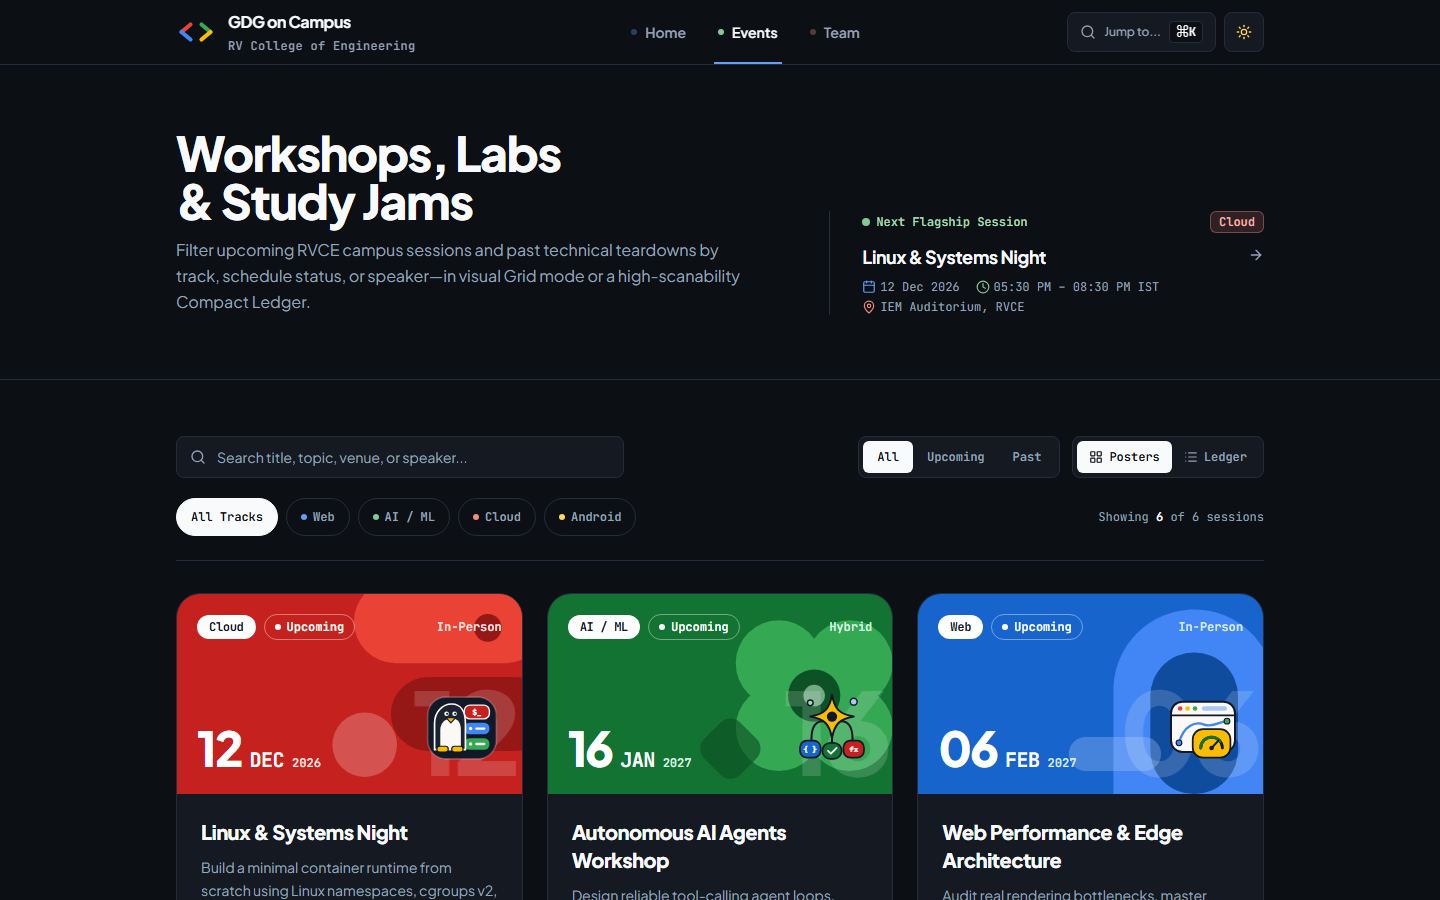
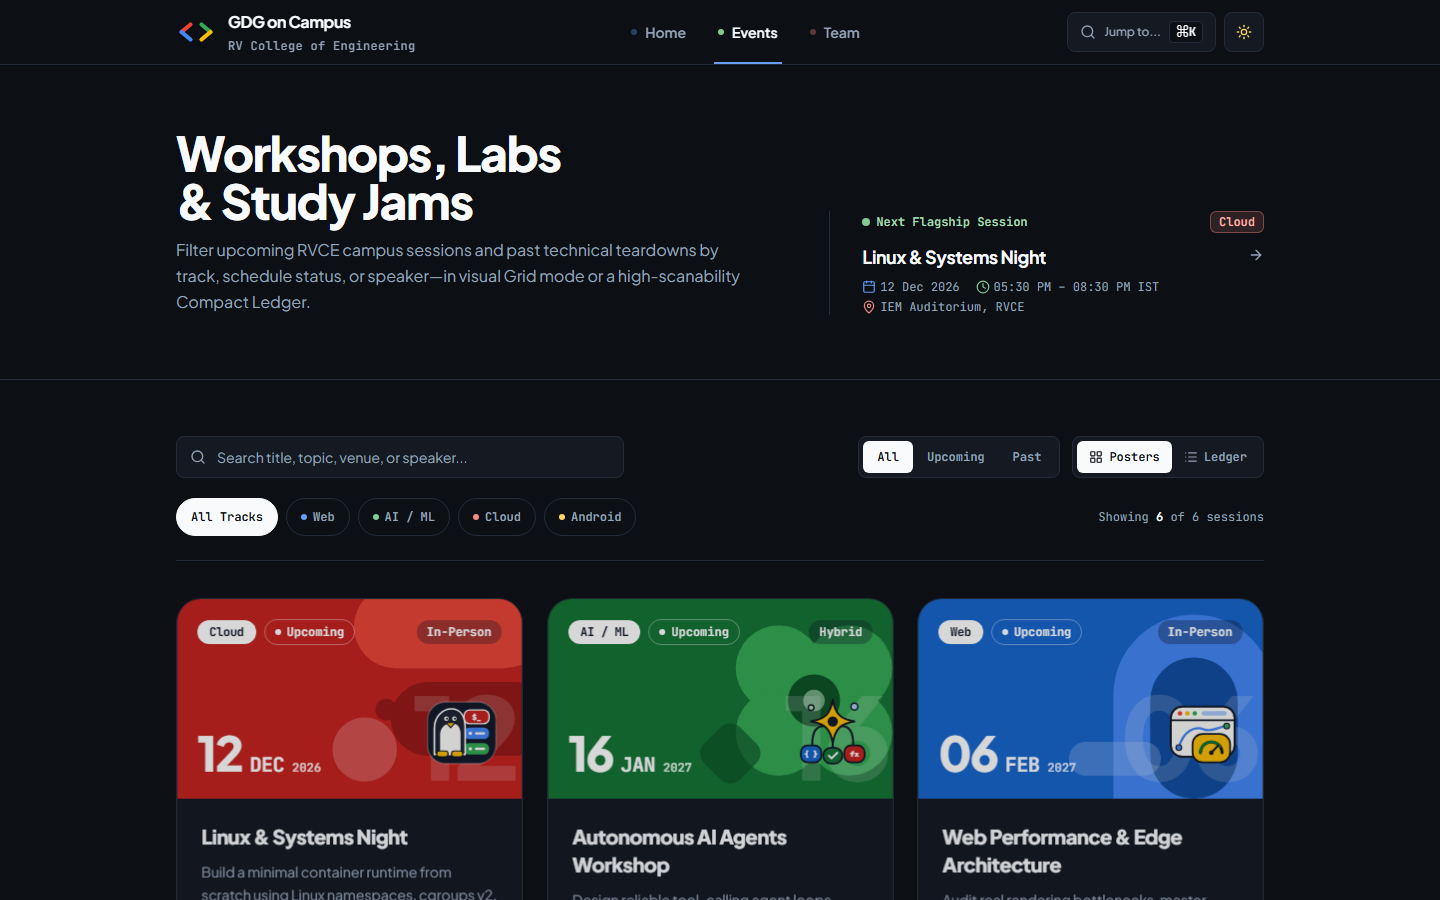
fix: resolve React #418 hydration error and scroll-reveal contrast for 100/100 Lighthouse

Changed region(s): [[0.125, 0.6533, 0.875, 1.0]]

diff --git a/src/components/events/EventPoster.tsx b/src/components/events/EventPoster.tsx
@@ -225,7 +225,7 @@ export function EventPoster({
               fill={theme.shapeAccent}
               fillOpacity="0.28"
             />
-            <circle cx="368" cy="58" r="15" fill={theme.shapeSecondary} />
+            <circle cx="288" cy="144" r="14" fill={theme.shapeSecondary} />
           </>
         )}
 
